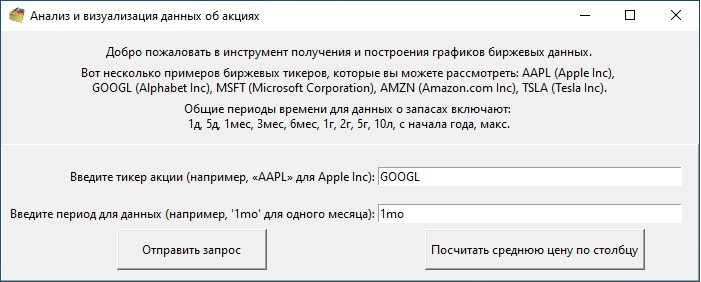
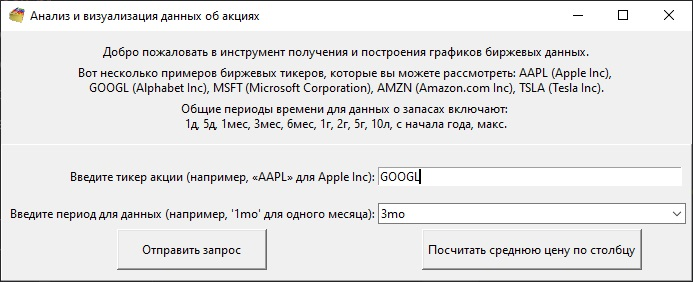
Добавлен combobox для period

diff --git a/main.py b/main.py
@@ -7,10 +7,10 @@ def main():
     print("Вот несколько примеров биржевых тикеров, которые вы можете рассмотреть: AAPL (Apple Inc), GOOGL (Alphabet Inc), MSFT (Microsoft Corporation), AMZN (Amazon.com Inc), TSLA (Tesla Inc).")
     print("Общие периоды времени для данных о запасах включают: 1д, 5д, 1мес, 3мес, 6мес, 1г, 2г, 5г, 10л, с начала года, макс.")
 
-    # ticker = input("Введите тикер акции (например, «AAPL» для Apple Inc): ").upper()
-    ticker = 'AAPL'
-    # period = input("Введите период для данных (например, '1mo' для одного месяца): ")
-    period = '5d'
+    ticker = input("Введите тикер акции (например, «AAPL» для Apple Inc): ").upper()
+    # ticker = 'AAPL'
+    period = input("Введите период для данных (например, '1mo' для одного месяца): ")
+    # period = '5d'
 
     # Fetch stock data
     stock_data = dd.fetch_stock_data(ticker, period)

diff --git a/main_win.py b/main_win.py
@@ -1,6 +1,7 @@
 import data_download as dd
 import data_plotting as dplt
 import tkinter as tk
+from tkinter import ttk
 from tkinter.constants import *
 from tkinter import messagebox as mb
 
@@ -89,7 +90,8 @@ def create_win():
     txt = 'GOOGL'
     tik_entry.insert(0, txt)
 
-    period_entry = tk.Entry(frame2, width=50)
+    list_period = ['1d', '5d', '1mo', '3mo', '6mo', '1y', '2y', '5y', '10y', 'ytd', 'max']
+    period_entry = ttk.Combobox(frame2, width=50, values=list_period)
     period_entry.grid(row=1, column=1, sticky=W)
     txt = '1mo'
     period_entry.insert(0, txt)

diff --git a/README.md b/README.md
@@ -2,13 +2,13 @@
 ## В разработке...
 
 
-
 • Графический и консольный интерфейс приложения.  
 • Вывод графика на экран.  
-• Сохранение графика в файл.
+• Сохранение графика в файл.  
+• Выбор периода из списка.
 
-Для запуска консольной версии запустите `main.py`  
-Для запуска графической версии запустите `main_win.py`  
+Для консольной версии запустите `main.py`  
+Для графической версии запустите `main_win.py`  
 
 <!--
 • Возможность выбора каталога.  
@@ -22,3 +22,5 @@
 -->
 ### Скриншот интерфейса:
 ![img01](https://github.com/Topotun77/stock_data_analysis/blob/master/ScreenShots/n001.jpg?raw=true)
+### Вывод графика:
+![img01](https://github.com/Topotun77/stock_data_analysis/blob/master/ScreenShots/n002.jpg?raw=true)
